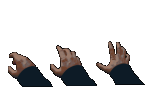
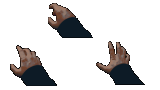
animation system and hand sprite rendering

Changed region(s): [[0.0312, 0.4889, 0.625, 0.9778], [0.2812, 0.0222, 0.5938, 0.4222]]

diff --git a/src/engine/animation.hpp b/src/engine/animation.hpp
@@ -1,0 +1,92 @@
+#pragma once
+#include <vector>
+#include <SDL3/SDL.h>
+
+#include "sprite.hpp"
+
+struct Animation
+{
+    Animation() {}
+
+    void setImage(const std::string& path, SDL_Renderer* SDLRen) 
+    { 
+        if (!m_sprite.loadImage(path, SDLRen, true))  
+        {
+            m_sprite.clean();
+        }
+    }
+
+    void setFrameTime(float time)
+    {
+        m_frameTime = time;
+    }
+
+    void addFrame(SDL_FRect src)
+    {
+        m_frames.push_back(src);
+    }
+
+    void setLooping(bool val) { m_loops = val; }
+
+    void reset() { m_currentFrame = 0; m_timer = 0.0f; } 
+    bool isFinished() const { return m_currentFrame >= (int)m_frames.size() - 1 || m_timer >= m_frameTime; }
+
+    void update(float delta)
+    {
+        if (m_frameTime == 0.0f || m_frames.empty()) return;
+        if (!m_loops && m_currentFrame >= (int)m_frames.size() - 1) return;
+
+        m_timer += delta;
+        if (m_timer >= m_frameTime)
+        {
+            m_timer = 0.0f;
+            m_currentFrame++;
+
+            if (m_currentFrame >= (int)m_frames.size())
+            {
+                if (m_loops) { m_currentFrame = 0; }
+                else { m_currentFrame = (int)m_frames.size() - 1; }
+            }
+        }
+    }
+
+    void renderFrame(SDL_Renderer* SDLRen, float x, float y)
+    {
+        if (m_frames.empty()) return;
+        m_sprite.src = getCurrentFrame();
+        m_sprite.dst = {x, y, m_sprite.src.w * m_spriteScale, m_sprite.src.h * m_spriteScale};
+
+        m_sprite.render(SDLRen);
+    }
+
+    SDL_FRect getCurrentFrame() 
+    {
+        if (m_frames.empty()) return {0, 0, 0, 0};
+        if (m_currentFrame < 0) 
+        {
+            m_currentFrame = 0;
+        }
+        else if (m_currentFrame >= (int)m_frames.size()) 
+        {
+            m_currentFrame = (int)m_frames.size() - 1;
+        }
+
+        return m_frames[m_currentFrame];
+    }
+
+    void setRenderScale(float val) { m_spriteScale = val; }
+
+private:
+    std::vector<SDL_FRect> m_frames;
+
+    Sprite m_sprite;
+
+    int m_currentFrame = 0;
+
+    float m_frameTime = 0.0f;
+    float m_timer = 0.0f;
+
+    float m_spriteScale = 1.0f;
+    
+    bool m_loops = false;
+};

diff --git a/src/engine/sprite.hpp b/src/engine/sprite.hpp
@@ -1,0 +1,58 @@
+#pragma once
+#include <iostream>
+#include <SDL3/SDL.h>
+#include <SDL3_image/SDL_image.h>
+
+struct Sprite
+{
+    Sprite() {}
+    ~Sprite() { if (tex) SDL_DestroyTexture(tex); }
+
+    Sprite(const Sprite&) = delete;
+    Sprite& operator=(const Sprite&) = delete;
+
+    Sprite(Sprite&& o) noexcept : tex(o.tex), src(o.src), dst(o.dst) { o.tex = nullptr; }
+    Sprite& operator=(Sprite&& o) noexcept
+    {
+        if (this != &o)
+        {
+            if (tex) SDL_DestroyTexture(tex);
+            tex = o.tex; src = o.src; dst = o.dst;
+            o.tex = nullptr;
+        }
+        return *this;
+    }
+
+    bool loadImage(const std::string& path, SDL_Renderer* SDLRen, bool pixelSave=false)
+    {
+        SDL_Surface* surf = IMG_Load(path.c_str());
+        if (!surf)
+        {
+            std::cerr << "loadImage() failure: " << SDL_GetError() << ". Likely failed to find: " << path << "\n";
+            return false;
+        }
+
+        tex = SDL_CreateTextureFromSurface(SDLRen, surf);
+        SDL_DestroySurface(surf);
+        if (!tex)
+        {
+           std::cerr << "loadImage() failure: " << SDL_GetError() << ". 'tex' was nullptr " << "\n";
+           return false;
+        }
+        if (pixelSave) { SDL_SetTextureScaleMode(tex, SDL_SCALEMODE_NEAREST); }
+
+        return true;
+    }
+
+    void render(SDL_Renderer* SDLRen)
+    {
+        SDL_RenderTexture(SDLRen, tex, &src, &dst);
+    }
+
+    void clean() { SDL_DestroyTexture(tex); }
+
+    SDL_Texture* tex = nullptr;
+    
+    SDL_FRect src = {0, 0, 0, 0};
+    SDL_FRect dst = {0, 0, 0, 0};
+};

diff --git a/src/engine/player.cpp b/src/engine/player.cpp
@@ -1,8 +1,11 @@
 #include "player.hpp"
 
-Player::Player(Vector3 pos)
+Player::Player(Vector3 pos, SDL_Renderer* ren)
 {
     m_cam = std::make_unique<Camera>(pos);
+    m_ren = ren;
+
+    initAnims();
 }
 
 void Player::update(float delta)
@@ -30,4 +33,28 @@ void Player::update(float delta)
     camPtr->m_direction = camPtr->m_direction.normalized();
 
     m_cam->move(delta);
+
+    currAnim().update(delta);
+}
+
+void Player::render()
+{
+    currAnim().renderFrame(m_ren, 585, 420);
+}
+
+void Player::initAnims()
+{
+    handIdle.setImage("assets/hands/weaponspell1.png", m_ren);
+    handIdle.setRenderScale(5.5);
+    handIdle.setFrameTime(1.7);
+    handIdle.setLooping(true);
+    handIdle.addFrame({ 48, 2, 45, 36 });
+
+    spellBasic.setImage("assets/hands/weaponspell1.png", m_ren);
+    spellBasic.setRenderScale(5.5);
+    spellBasic.setFrameTime(1.7);
+    spellBasic.setLooping(false);
+    spellBasic.addFrame({ 48, 2, 45, 36 });
+    spellBasic.addFrame({ 10, 45, 47, 41 });
+    spellBasic.addFrame({ 96, 41, 49, 44 });
 }

diff --git a/src/engine/player.hpp b/src/engine/player.hpp
@@ -3,20 +3,36 @@
 #include <iostream>
 #include <memory>
 
+#include <SDL3/SDL.h>
+
 #include "globals/globals.hpp"
 #include "input.hpp"
 #include "camera.hpp"
+
+#include "animation.hpp"
+
+enum class AnimState { HAND_IDLE, SPELL_BASIC };
 
 class Player
 {
 public:
     Player() {}
-    Player(Vector3 pos);
+    Player(Vector3 pos, SDL_Renderer* SDLRen);
 
     Camera& getCam() const { return *m_cam; }
 
     void update(float delta);
+    void render();
 
 private:
+    SDL_Renderer* m_ren = nullptr;
     std::unique_ptr<Camera> m_cam;
+
+    void initAnims();
+
+    AnimState m_stat = AnimState::HAND_IDLE;
+    Animation& currAnim() { return m_stat == AnimState::HAND_IDLE ? handIdle : spellBasic; }
+
+    Animation handIdle;
+    Animation spellBasic;
 };

diff --git a/src/game/game.cpp b/src/game/game.cpp
@@ -31,7 +31,7 @@ void Game::run()
     m_ren.loadTextures(m_map.texturePaths);
     m_map.tree = buildBSP(m_map.walls);
 
-    m_play = Player({0, 0, 0});
+    m_play = Player({0, 0, 0}, m_sdlren);
     m_map.onLoad(m_play.getCam());
 
     DirectionalLight light =
@@ -81,6 +81,8 @@ void Game::run()
             m_ren.renderMap(m_map);
 
         m_ren.endRender();
+
+        m_play.render();
         SDL_RenderPresent(m_sdlren);
     }
 }
